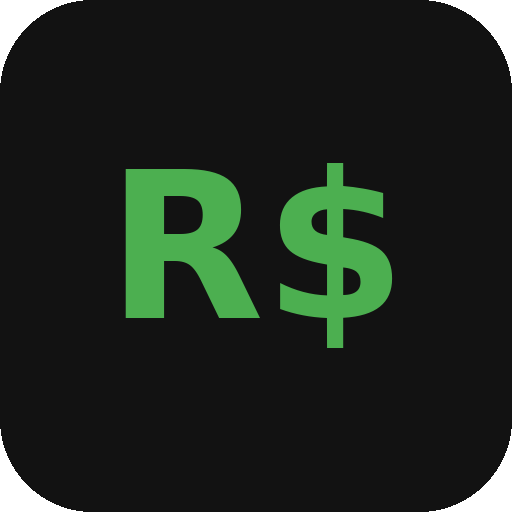
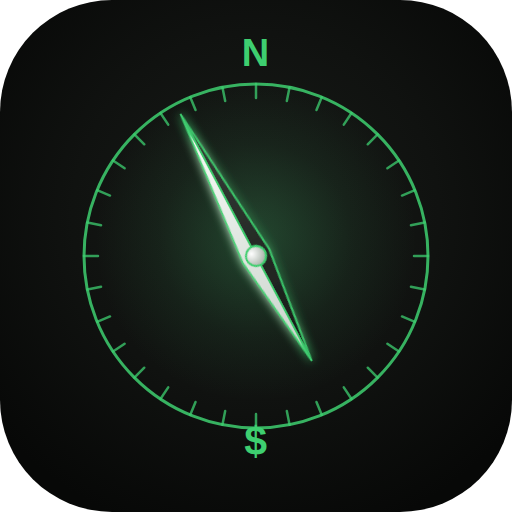
Novo ícone: bússola com $ no lugar do S
Troca o R$ genérico por uma bússola (agulha bicolor, anel com marcações,
N em cima e $ embaixo no lugar do S) — mesmo estilo escolhido dentre as
opções testadas. Desenhado em SVG e renderizado nas três resoluções do
manifest (192, 512 e 512 maskable, essa última com a arte recuada pra
caber na área seguros de qualquer máscara — círculo, squircle etc).

Claude-Session: https://claude.ai/code/session_01QuRbab4Lg3dNxH1FdNb6Wq

diff --git a/sw.js b/sw.js
@@ -1,7 +1,7 @@
 // IMPORTANTE: ao publicar uma versão nova do app, mude VERSAO aqui e a constante
 // APP_VERSION no index.html (as duas juntas). É a mudança neste arquivo que faz o
 // navegador perceber que existe versão nova e reinstalar o service worker.
-const VERSAO = '2026.08.07-8';
+const VERSAO = '2026.08.08-1';
 const CACHE_NAME = 'meu-financeiro-' + VERSAO;
 
 const ARQUIVOS_PARA_CACHE = [

diff --git a/index.html b/index.html
@@ -5649,7 +5649,7 @@ function confirmarLancamentoVoz() {
 }
 
     // Versão do app. Ao publicar, mude aqui E a constante VERSAO no sw.js.
-    const APP_VERSION = '2026.08.07-8';
+    const APP_VERSION = '2026.08.08-1';
 
     // Inicialização
     carregarLocalStorage();
